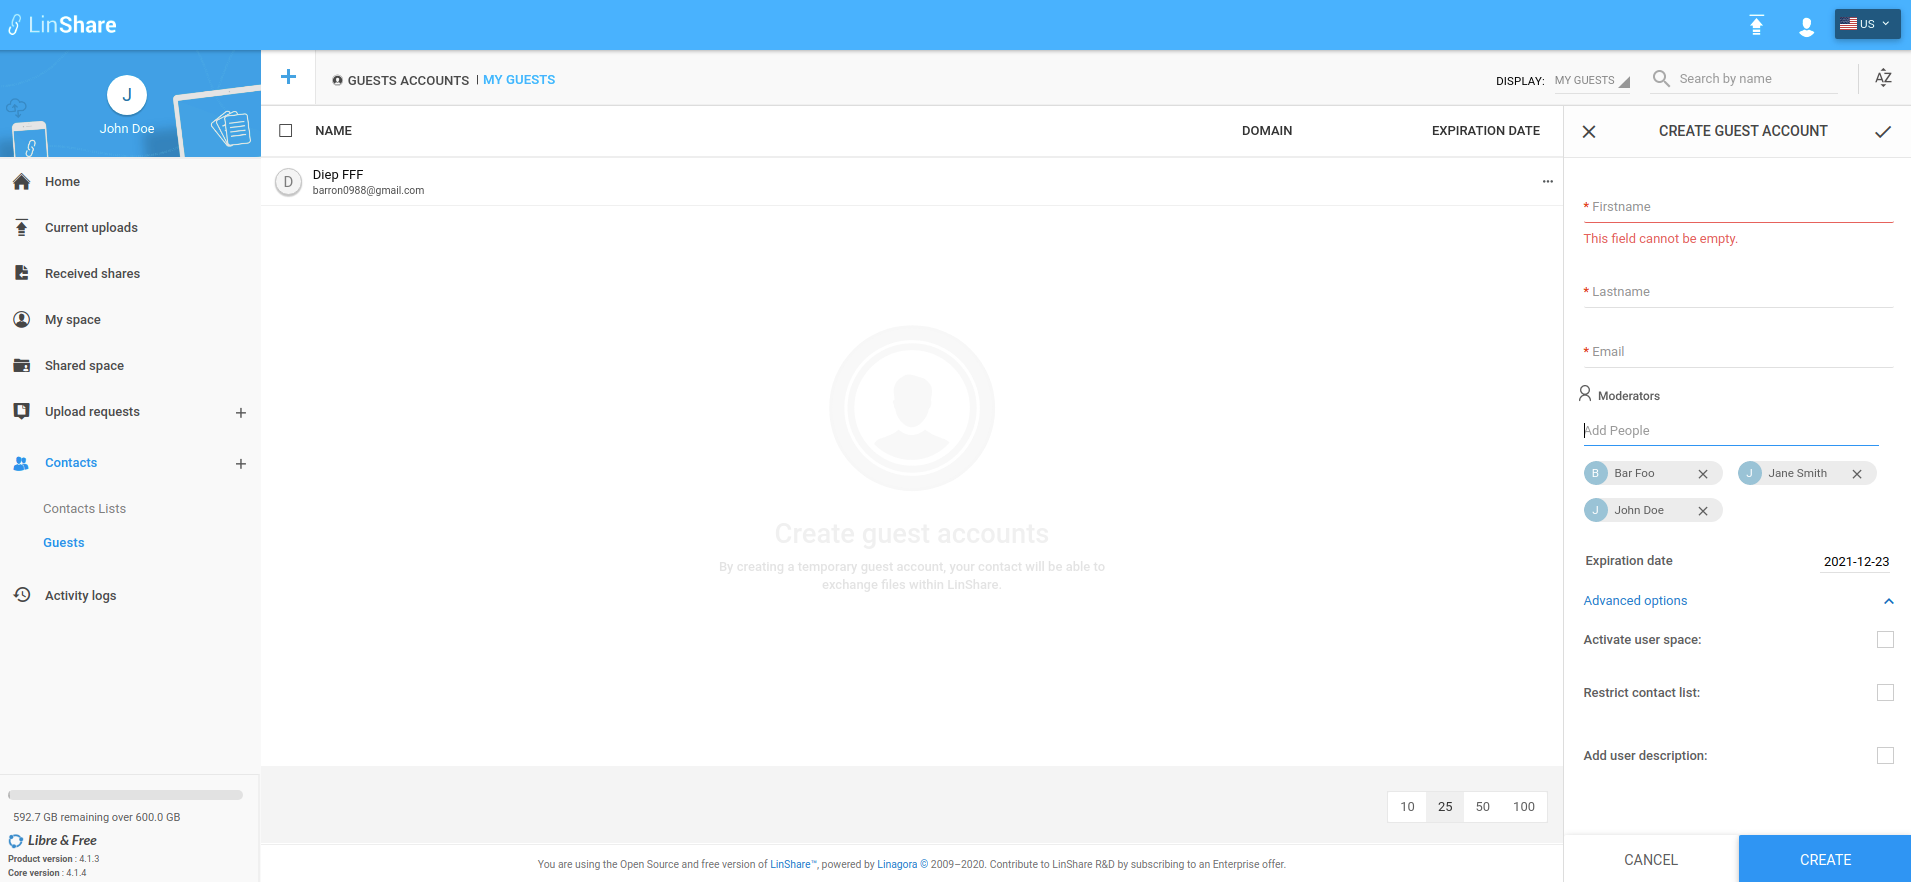
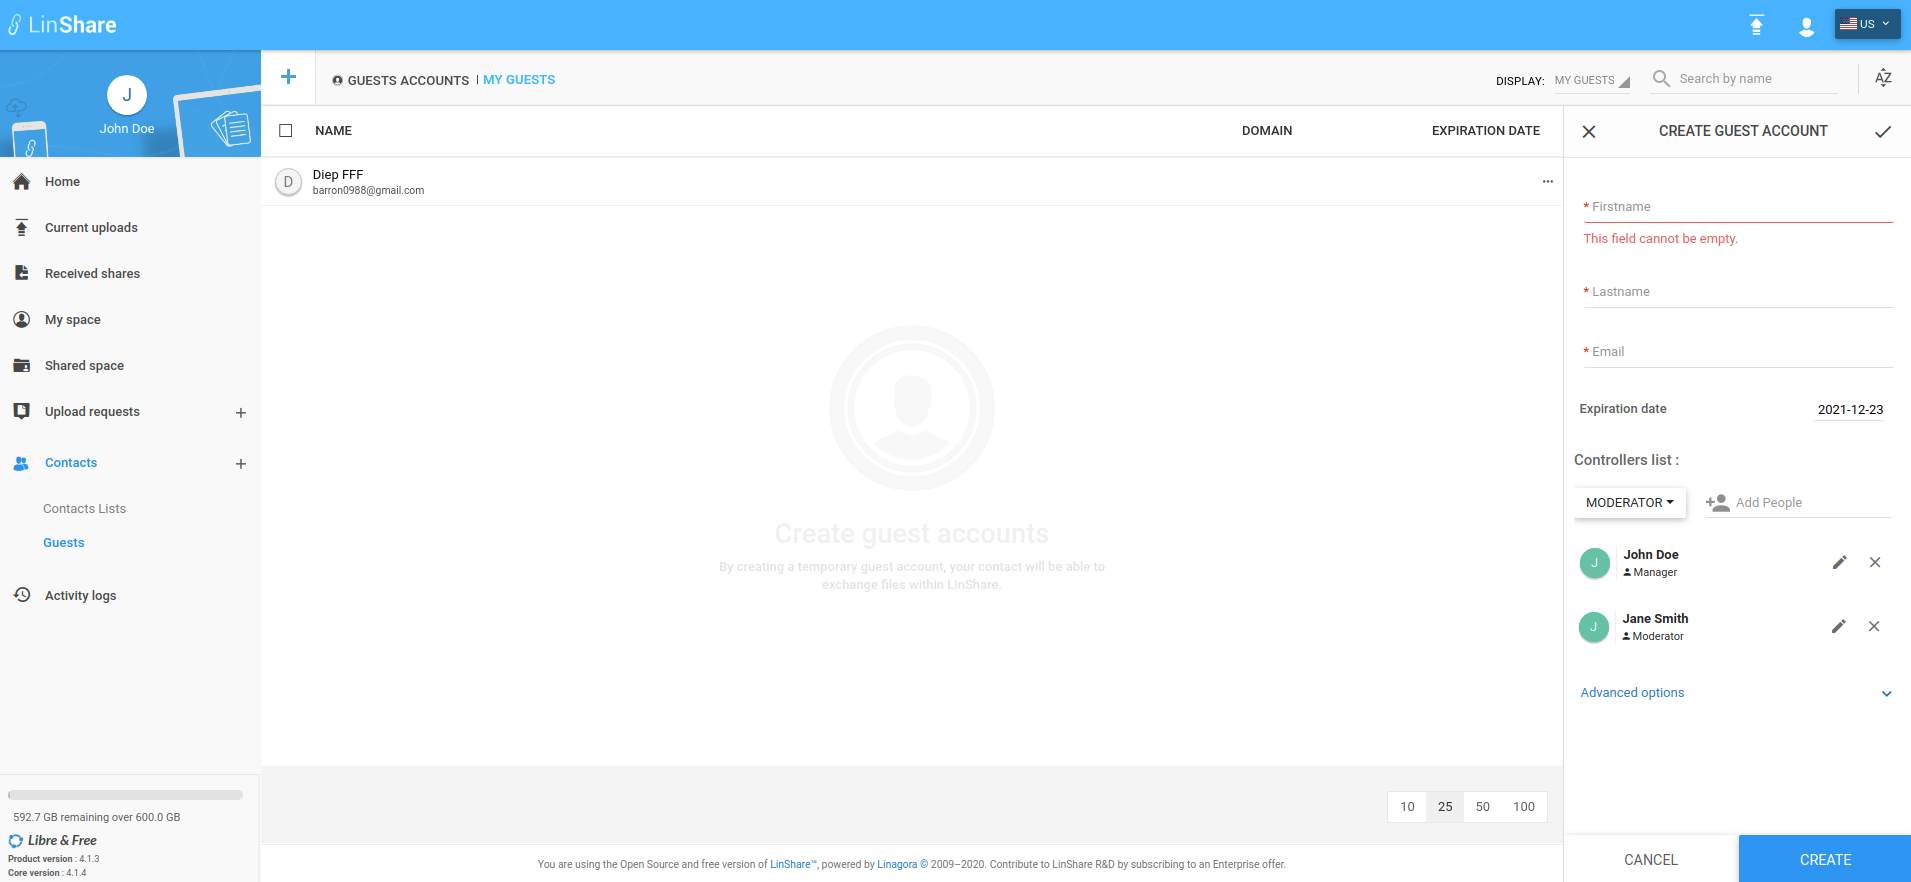
Update story 481 user create guest

diff --git a/documentation/EN/epics/Guests/story-481-user-can-create-guest-with-moderators.md b/documentation/EN/epics/Guests/story-481-user-can-create-guest-with-moderators.md
@@ -2,12 +2,12 @@
 
 * [Related EPIC](#related-epic)
 * [Definition](#definition)
-* [Screenshots](#screenshots)
+* [UI Design](#ui-design)
 * [Misc](#misc)
 
 ## Related EPIC
 
-* [Sharing file](./README.md)
+* [Guests](./README.md)
 
 ## Definition
 
@@ -19,34 +19,39 @@
 
 - From menu, I go to Contacts => Guests
 - I click on Create guest button, the guest creating form will be shown
-- I can see a new field: "Moderators" and I am automatically added as a moderators.
-- On Add people field, I type some characters then there will be a suggestion list. This list only contains internal users 
-- If there is no match, the message "Unknown user" will be shown
-- I select a user from suggestion, it is added to the moderators list below
-- I can see a button "Add" on field "Add people"
-- When I hover this button, I can see an explanation: "Add moderators as restricted contacts"
-- If I click this button, all moderators above will be added to restricted contact list
-- If moderators list is blank, the field will be highlighted in red and there will be an error message below: "This field requires at least one contact"
+- I can see a new field:"Controller", including a drop-down list and "Add people" field
+   - I can select roles from the drop-down list: Moderator or manager
+   - Then in Add people field, I type some characters then there will be a suggestion list. This list only contains internal users 
+   - If there is no match, the message "Unknown user" will be shown
+   - I select a user from suggestion, it is added to the manager/moderator list below
+- I am automatically added as guest's manager.
+- If I enable option: "Restricted contact" list, the field "Add people" to restricted contact list is displayed.
+- The guest's author (me) is automatically added as restricted contact. 
+- I can see a button "cross" on field "Add people"
+- When I hover this button, I can see an explanation: "Add controllers list as restricted contacts"
+- If I click this button, all managers and moderators above will be added to restricted contact list
 - I can continue input other fields as normal and click Create button
 
 #### Postconditions
 
-- I can remove users from moderator list by clicking icon "x" in each contact 
-- I can add someone to the restricted contact list which won't be a moderator
-- After adding all moderators as restricted contact, I can remove some of them from the restricted contact list. 
-- The information of Guest owner is still kept in Guest detail 
-- When I am added as a moderator of a guest, I can the that guest on my Guest list. 
+- There are 3 roles to a guest: Guest' manager, guest's moderator and guest's reader. Every LinShare user has one of these roles to a guest. If an user is not added as a moderator or a manager to a guest, he is automatically has "Guest's Reader" role.
+- I can remove users from controller list by clicking icon "x" in each contact 
+- I can change the role of each user in controller list by click on edit icon then select role manager/moderator from the drop-down list
+- I can add someone to the restricted contact list which is not a moderator or manager
+- After adding all managers and moderators as restricted contact, I can remove some of them from the restricted contact list. 
+- The information of Guest owner is still kept in Guest detail
 
 [Back to Summary](#summary)
 
 ## UI Design
+
+
 
 #### Mockups
 
 ![story481](./mockups/481.1.png)
 ![story481](./mockups/481.2.png)
 ![story481](./mockups/481.3.png)
-![story481](./mockups/481.4.png)
 
 
 #### Final design
